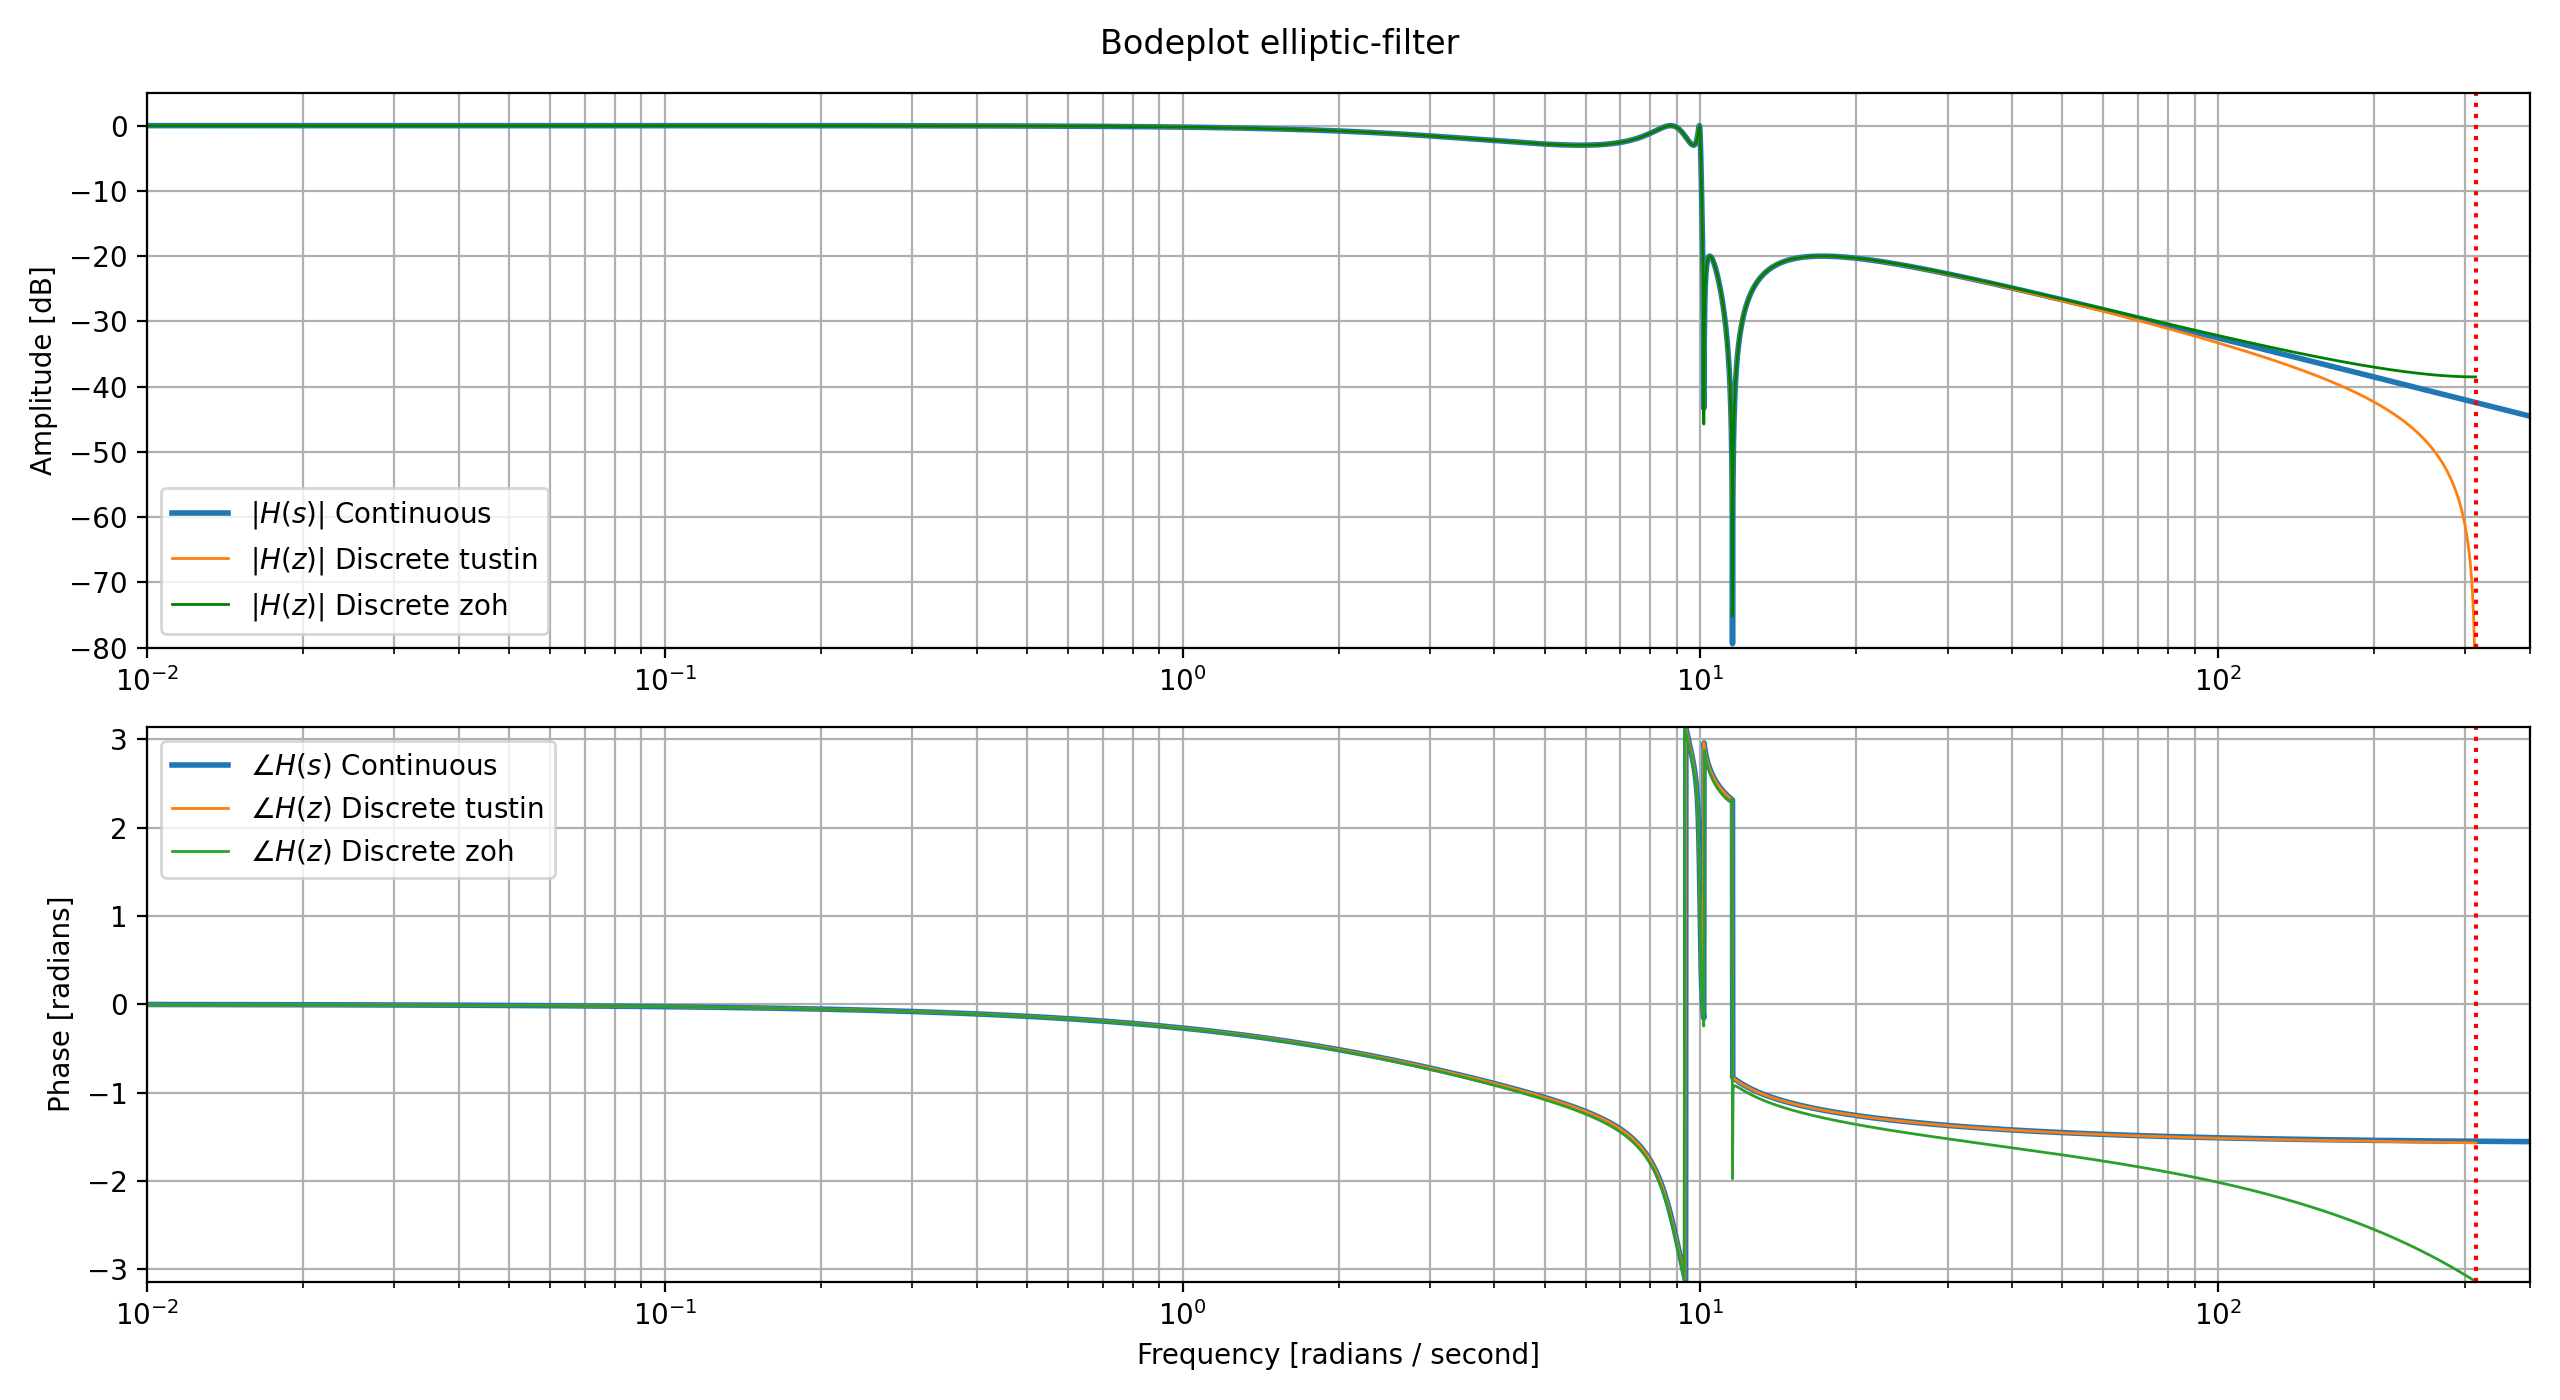
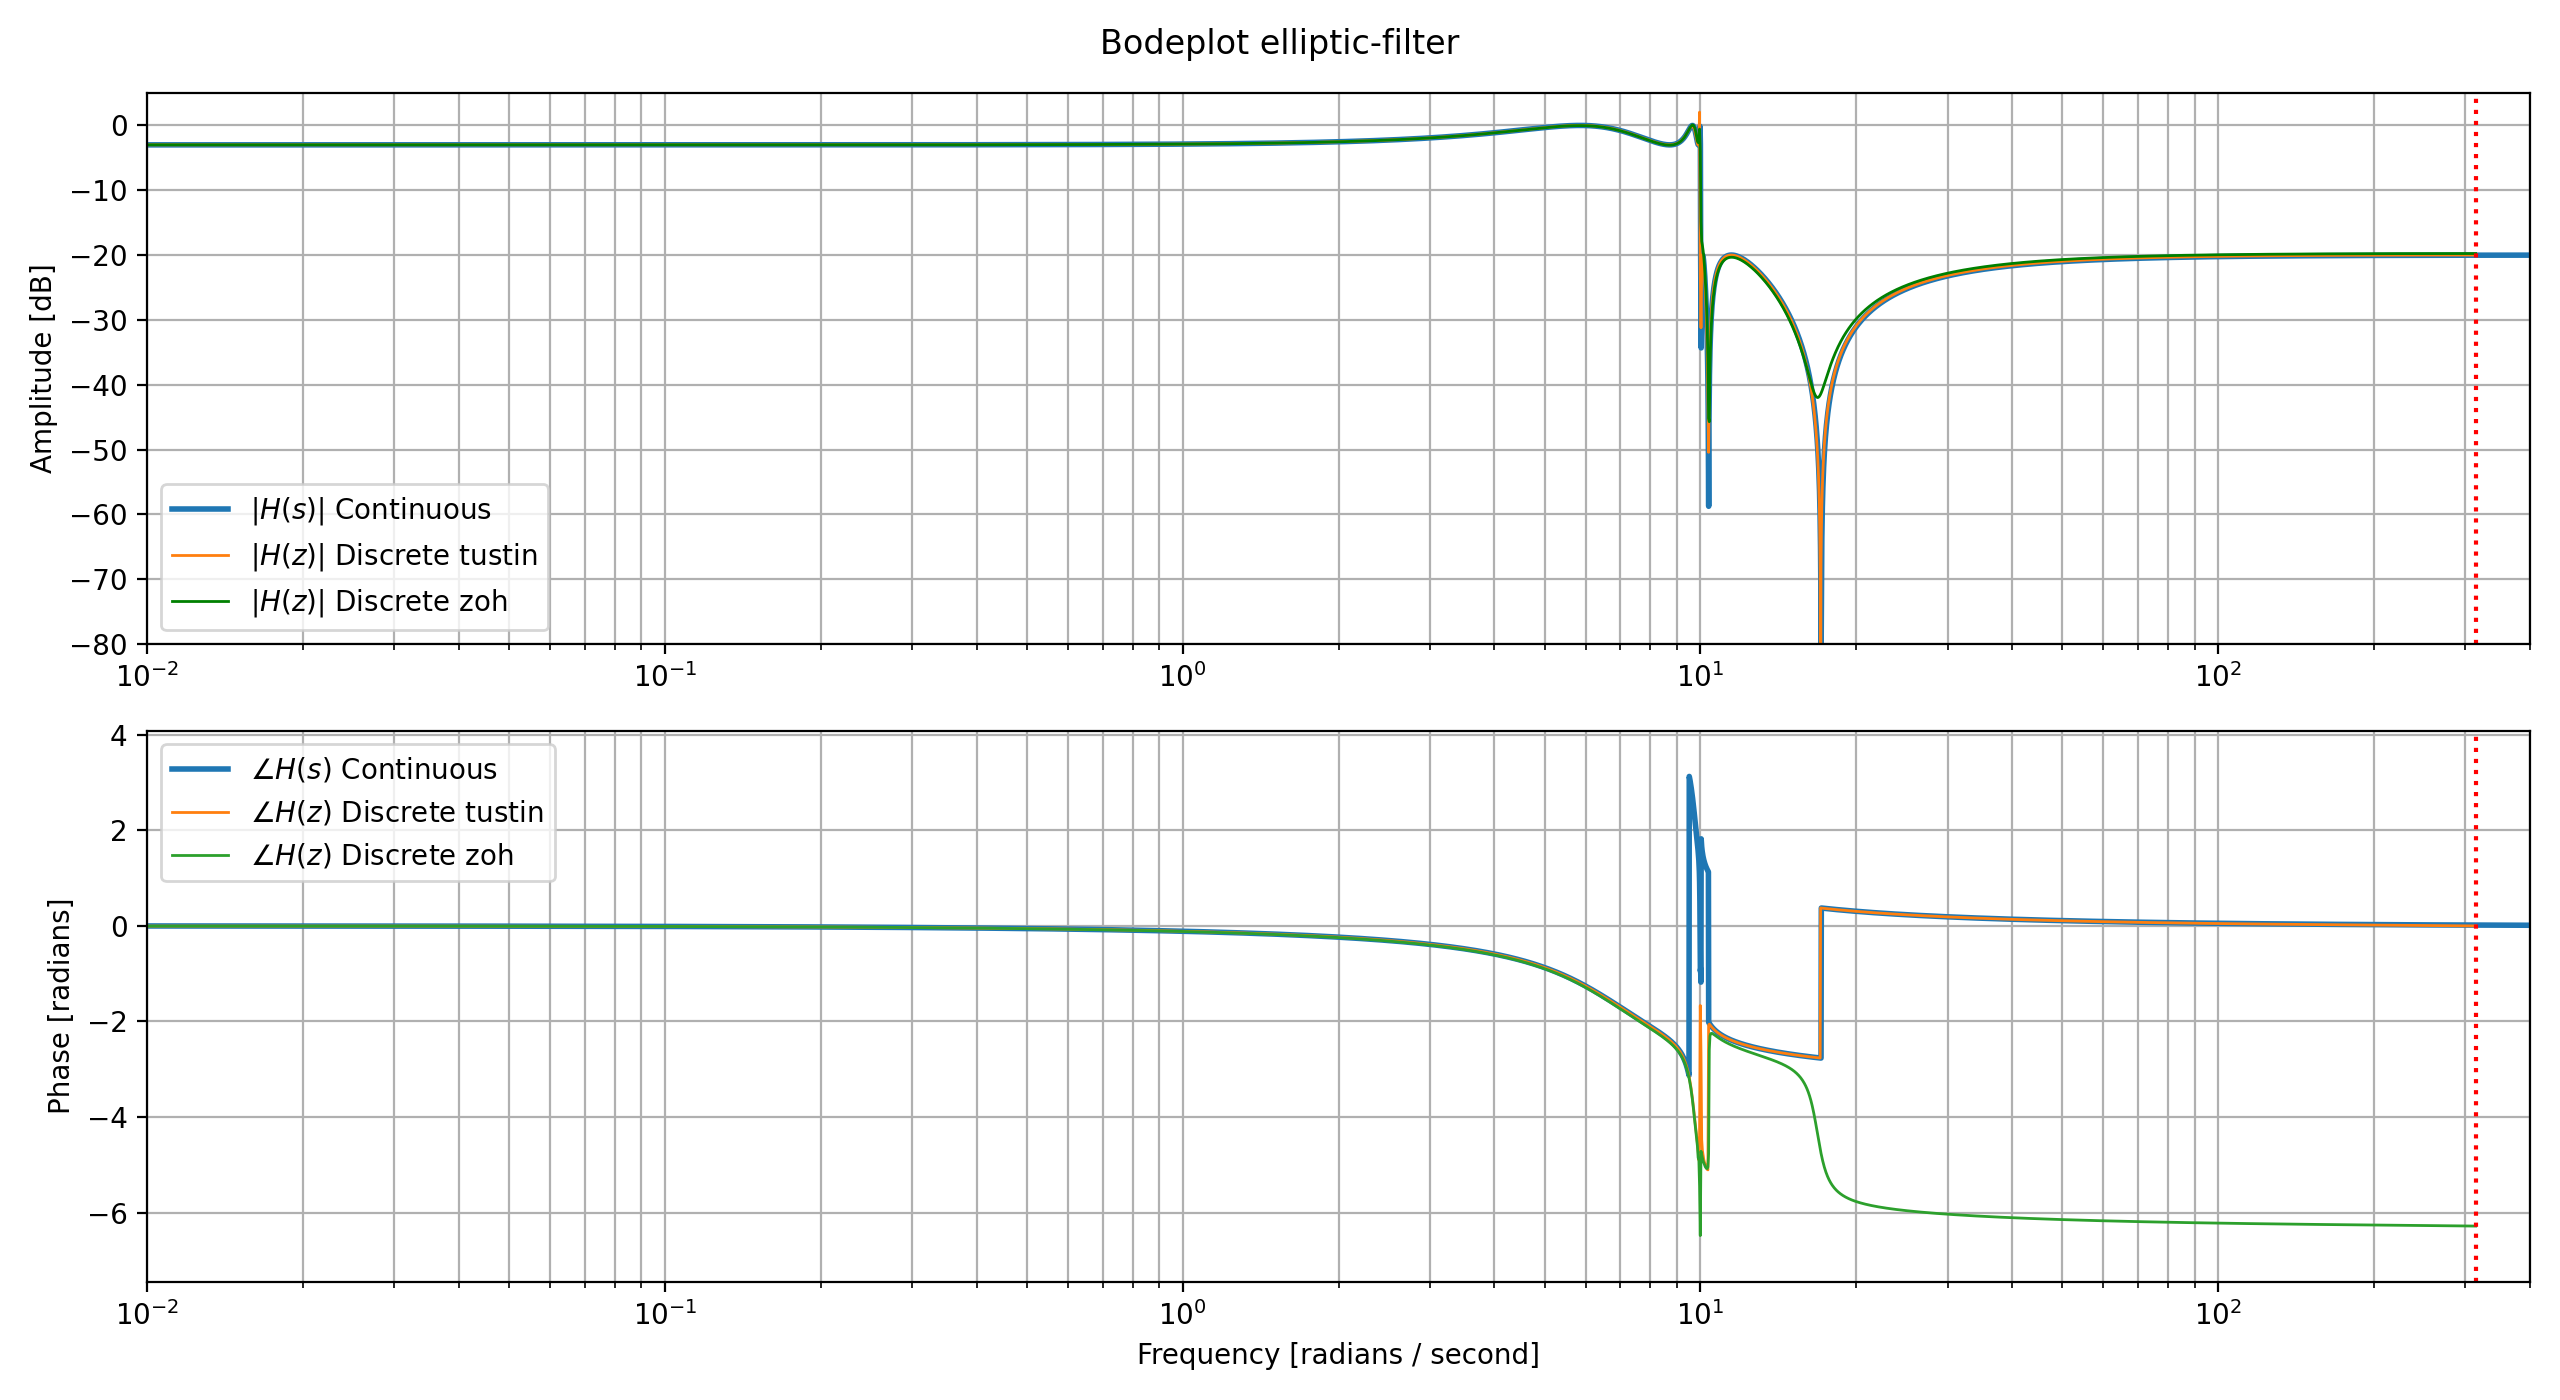
Version 1.1 of the program

diff --git a/main.py b/main.py
@@ -9,6 +9,7 @@ import scipy.signal as sig
 
 show_figures = False  # Display the figure when the program is run
 save_figures = True  # Save the figures to the same folder as the program
+print_coefficient = True  # Enable the printing of coefficients for the filters
 
 
 def plot_bode(omega, amp, fig_num=None, title=""):
@@ -57,6 +58,11 @@ def compare2disc(analog_filter, ts=0.1, title="", fig_num=[None, None], step_tim
     filter_z_warp = sig.cont2discrete(system=analog_filter, dt=ts, method="zoh") # bilinear, zoh
     # using tustin
 
+    if print_coefficient:
+        print(title, " analog: \n b:", analog_filter[0], "\n a: ", analog_filter[1])
+        print(title, " discrete zoh: \n b:", filter_z_zoh[0][0], "\n a: ", filter_z_zoh[1])
+        print(title, " discrete tustin: \n b:", filter_z_tustin[0][0], "\n a: ", filter_z_tustin[1])
+
     # using tustin with warping
 
     # Plot the z-domain representation of the filter (bode and step respons)
@@ -88,11 +94,11 @@ def compare2disc(analog_filter, ts=0.1, title="", fig_num=[None, None], step_tim
     # Make the subplot for the phase response
     plot_phase = plot_bode.add_subplot(212, sharex=plot_amplitude)
     plot_phase.semilogx(w, np.angle(h), label=r"$\angle H(s)$ Continuous", linewidth=2)
-    plot_phase.semilogx(w_z_tustin*2*np.pi, np.angle(h_z_tustin), label=r"$\angle H(z)$ Discrete tustin", linewidth=1)
-    plot_phase.semilogx(w_z_zoh*2*np.pi, np.angle(h_z_zoh), label=r"$\angle H(z)$ Discrete zoh", linewidth=1)
+    plot_phase.semilogx(w_z_tustin*2*np.pi, np.unwrap(np.angle(h_z_tustin)), label=r"$\angle H(z)$ Discrete tustin", linewidth=1)
+    plot_phase.semilogx(w_z_zoh*2*np.pi, np.unwrap(np.angle(h_z_zoh)), label=r"$\angle H(z)$ Discrete zoh", linewidth=1)
     plot_phase.axvline(1/ts*np.pi, color='red', ls=":")  # cutoff frequency
     plot_phase.legend()
-    plot_phase.set_ylim(-np.pi, np.pi)
+    # plot_phase.set_ylim(-np.pi, np.pi)
     # phase.title('Butterworth filter frequency response')
     plot_phase.set_xlabel('Frequency [radians / second]')
     plot_phase.set_ylabel('Phase [radians]')
@@ -115,11 +121,18 @@ def compare2disc(analog_filter, ts=0.1, title="", fig_num=[None, None], step_tim
     s_n_tustin = sig.lfilter(filter_z_tustin[0][0], filter_z_tustin[1], u_n)
     s_t_cont = sig.lsim(analog_filter, u_n, t)
 
-    plot_step = plt.figure(dpi=200, figsize=(12.8, 7), num=fig_num[1])
-    plot_step.suptitle("Step response " + title)
+    # make the impulse response
+    # Make the impulse for discrete zoh system
+    h_n_zoh = sig.dimpulse(filter_z_zoh, t=t)
+    h_n_tustin = sig.dimpulse(filter_z_tustin, t=t)
+    h_t_cont = sig.impulse(analog_filter, T=t)
 
-    # Make the subplot for the amplitude
-    ax1_step = plot_step.add_subplot(111)
+    plot_step = plt.figure(dpi=200, figsize=(12.8, 7), num=fig_num[1])
+    plot_step.suptitle("Step and impulse response for " + title)
+
+    # Make the subplot for the stepresponse
+    ax1_step = plot_step.add_subplot(211)
+    ax1_step.set_title("Step response")
     ax1_step.plot(s_t_cont[0], s_t_cont[1], "C0", alpha=1, label=r'$ U(s)\cdot H(s) $ Continuous', linewidth=2)
     ax1_step.plot(t, s_n_tustin, "C1", alpha=1, label=r'$U(z)\cdot H(z) $ Discrete tustin', linewidth=1)
     ax1_step.plot(t, s_n_zoh, "C2", alpha=1, label=r'$ U(z)\cdot H(z)$ Discrete zoh', linewidth=1)
@@ -132,7 +145,27 @@ def compare2disc(analog_filter, ts=0.1, title="", fig_num=[None, None], step_tim
     ax1_step.set_ylabel('Amplitude')
     ax1_step.margins(0, 0.1)
     ax1_step.grid(which='both', axis='both')
+
+
+    # Make the subplot for the impulse response
+    ax1_impulse = plot_step.add_subplot(212, sharex=ax1_step)
+    ax1_impulse.set_title("Impulse response")
+    ax1_impulse.plot(h_t_cont[0], h_t_cont[1], "C0", alpha=1, label=r'$ U(s)\cdot H(s) $ Continuous', linewidth=2)
+    ax1_impulse.plot(h_n_tustin[0], h_n_tustin[1][0], "C1", alpha=1, label=r'$U(z)\cdot H(z) $ Discrete tustin', linewidth=1)
+    ax1_impulse.plot(h_n_zoh[0], h_n_zoh[1][0], "C2", alpha=1, label=r'$ U(z)\cdot H(z)$ Discrete zoh', linewidth=1)
+
+    #ax1_impulse.axvline(1 / ts * np.pi, color='red', ls=":")  # cutoff frequency
+    ax1_impulse.legend()
+    #ax1_impulse.set_xlim(0.01, 400)
+    #ax1_impulse.set_ylim(-80, 5)
+    ax1_impulse.set_xlabel('Time [seconds]')
+    ax1_impulse.set_ylabel('Amplitude')
+    ax1_impulse.margins(0, 0.1)
+    ax1_impulse.grid(which='both', axis='both')
+
+
     plot_step.tight_layout()
+
 
     return plot_bode, plot_step
 
@@ -146,13 +179,17 @@ if __name__ == '__main__':
     lowpass = sig.butter(1, 1, "low", analog=True)
     highpass = sig.butter(1, 80, "high", analog=True)
     bandstop = sig.butter(1, [90, 110], "bandstop", analog=True)
-    elliptic = sig.ellip(5, 3, 20, 10, analog=True)
+    elliptic = sig.ellip(8, 3, 20, 10, analog=True)
 
     # Make the figures for the comparison between the analog and discrete systems
-    bode_lowpass, step_lowpass = compare2disc(lowpass, ts=0.01, title="lowpass-filter", fig_num=[1, 2], step_time=[0, 4])
-    bode_highpass, step_highpass = compare2disc(highpass, ts=0.01, title="highpass-filter", fig_num=[3, 4], step_time=[0, 1])
-    bode_bandstop, step_bandstop = compare2disc(bandstop, ts=0.01, title="bandstop-filter", fig_num=[5, 6], step_time=[0, 2])
-    bode_elliptic, step_elliptic = compare2disc(elliptic, ts=0.01, title="elliptic-filter", fig_num=[7, 8], step_time=[0, 10])
+    bode_lowpass, step_lowpass = compare2disc(lowpass, ts=0.01, title="lowpass-filter",
+                                              fig_num=[1, 2], step_time=[0, 4])
+    bode_highpass, step_highpass = compare2disc(highpass, ts=0.01, title="highpass-filter",
+                                                fig_num=[3, 4], step_time=[0, 1])
+    bode_bandstop, step_bandstop = compare2disc(bandstop, ts=0.01, title="bandstop-filter",
+                                                fig_num=[5, 6], step_time=[0, 2])
+    bode_elliptic, step_elliptic = compare2disc(elliptic, ts=0.01, title="elliptic-filter",
+                                                fig_num=[7, 8], step_time=[0, 10])
 
     # Display the figures if enabled
     if show_figures:

diff --git a/zoh_fig.py b/zoh_fig.py
@@ -1,0 +1,15 @@
+import numpy as np
+import matplotlib.pyplot as plt
+import scipy.signal as sig
+
+lp_filter = sig.butter(1, 5, "low", analog=True)
+t_cont = np.linspace(0, 1, 10000)
+
+f_t = sig.step(lp_filter, T=t_cont)
+
+x_n = f_t[0]
+
+plt.figure()
+plt.plot(f_t[0], f_t[1])
+
+plt.show()
